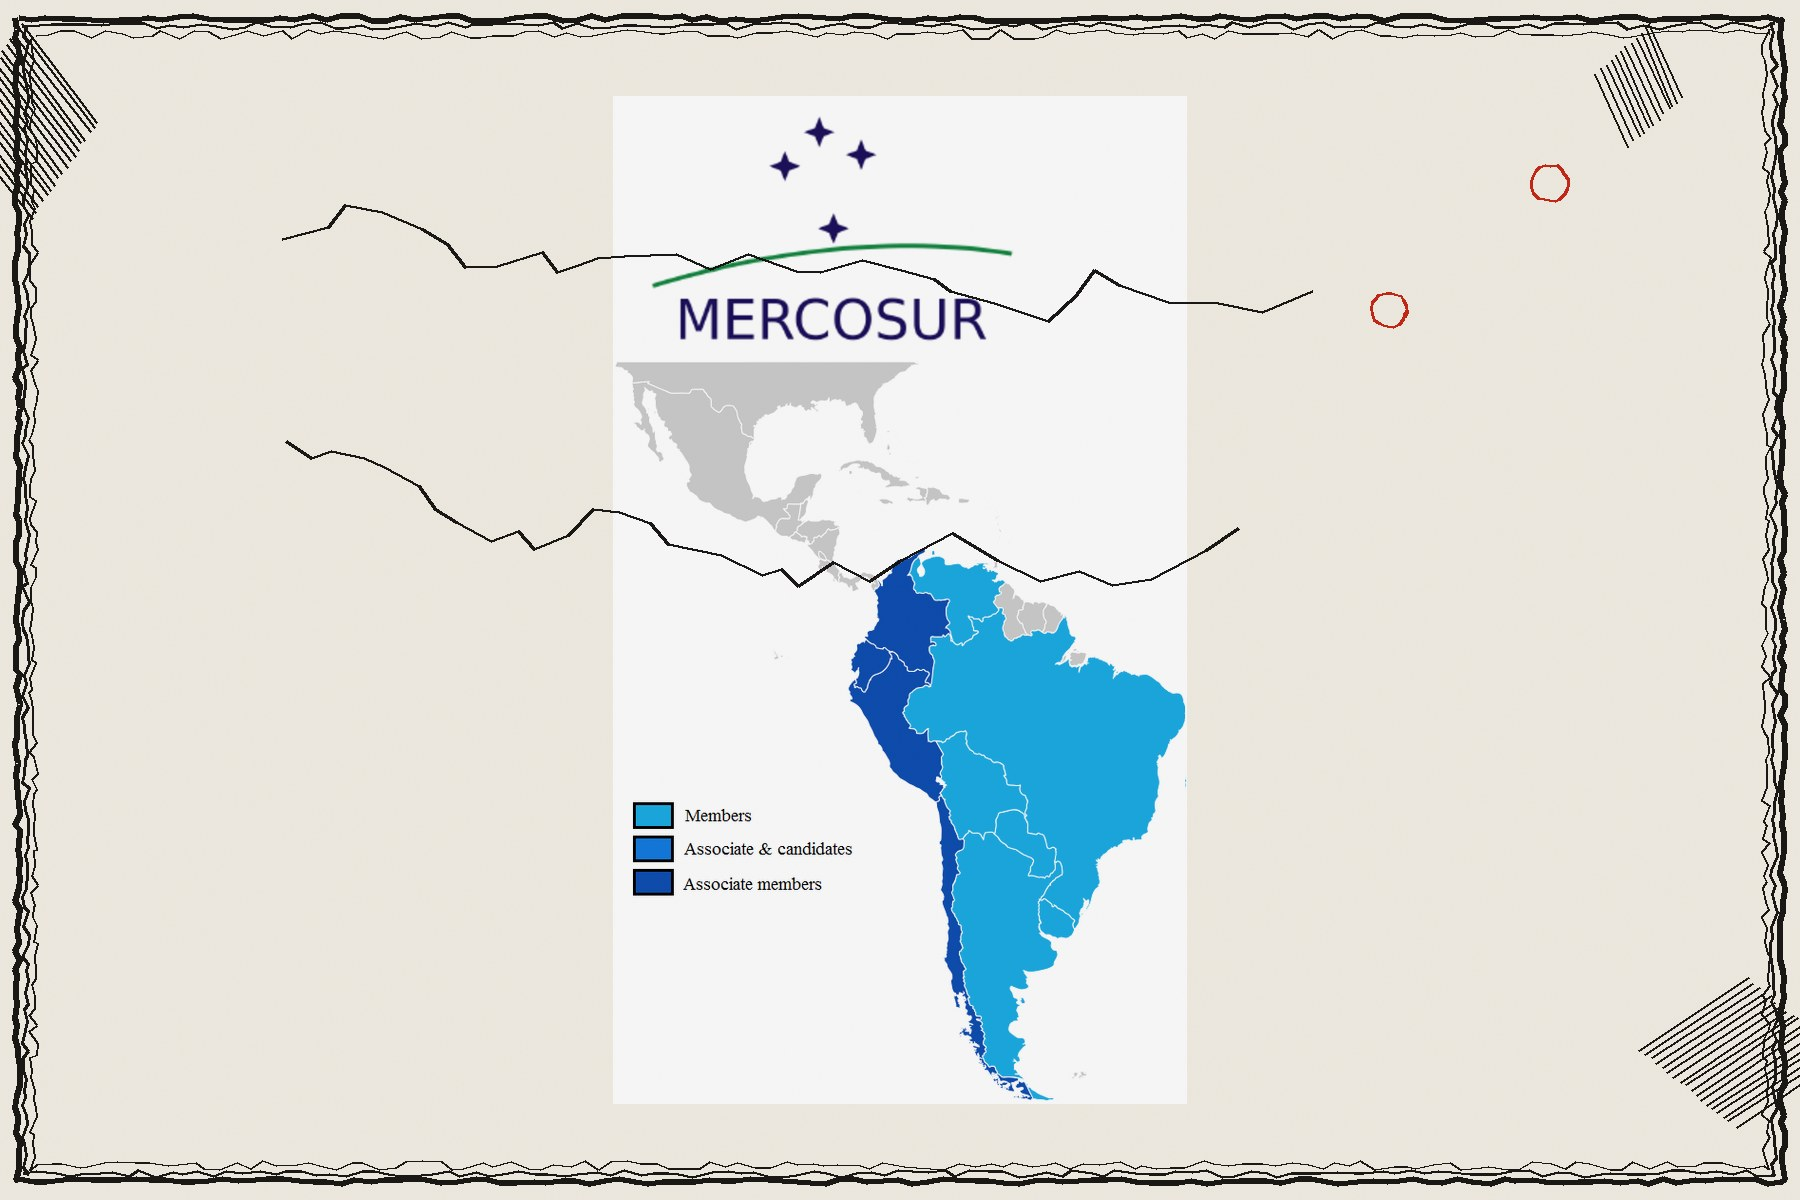
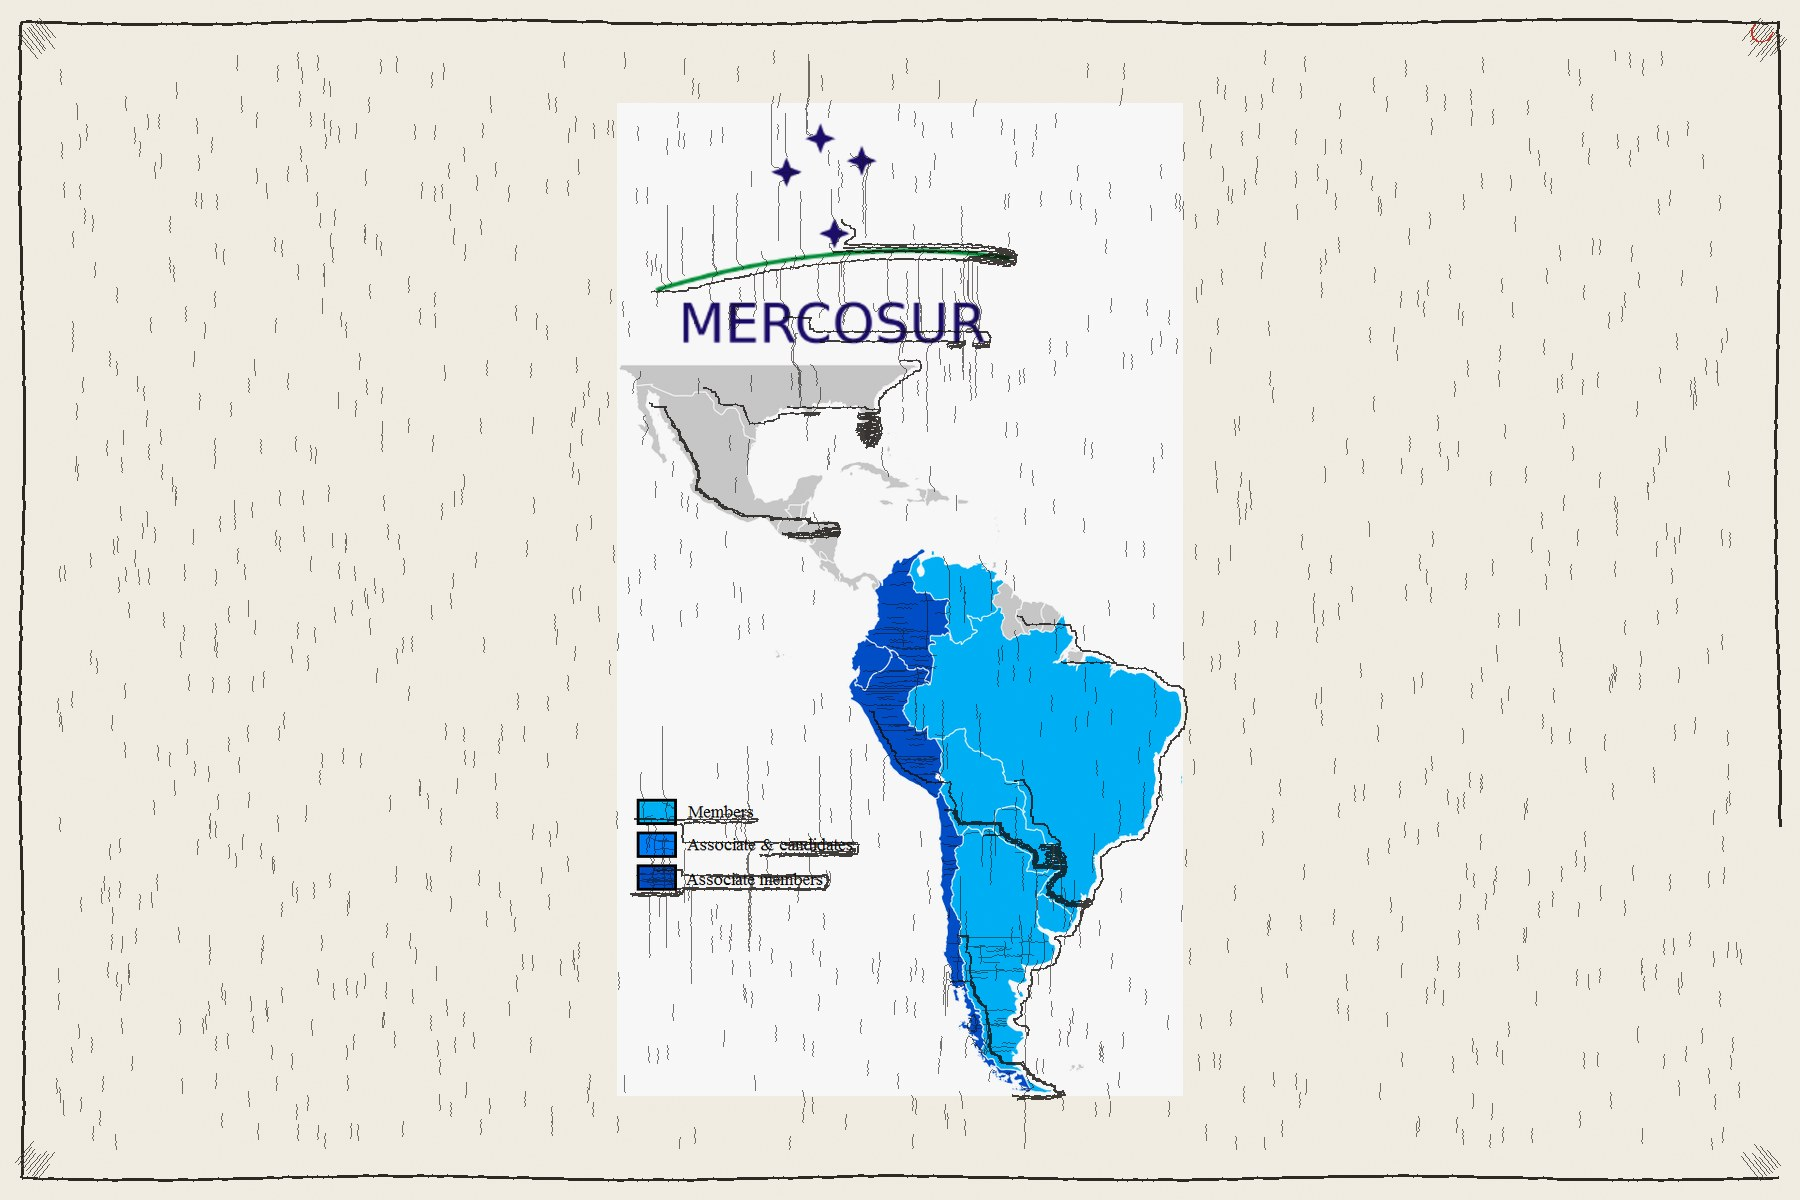
Rayado a tinta que sigue la forma, no la grilla.
Las láminas van montadas en papel, con marco incompleto, hatch en
las esquinas y trazos que corren con la arquitectura y el traje.

diff --git a/scripts/ny-plates.py b/scripts/ny-plates.py
@@ -1,5 +1,5 @@
 #!/usr/bin/env python3
-"""Official / Wikimedia plates + handmade New Yorker ink overlay."""
+"""Official photos mounted as plates, with form-following New Yorker ink."""
 from __future__ import annotations
 
 import math
@@ -10,163 +10,258 @@ import numpy as np
 from PIL import Image, ImageDraw, ImageEnhance, ImageFilter
 
 OUT = Path("/workspace/public/photos/plates")
-OUT.mkdir(parents=True, exist_ok=True)
 SRC = Path("/tmp/wm")
-
 W, H = 1800, 1200
-INK = (18, 16, 14, 245)
-RED = (196, 18, 0, 230)
+PAPER = (248, 243, 232)
+MX, MY = 54, 48  # cream margin around the photo
+INK = (28, 22, 18, 210)
+RED = (196, 18, 0, 210)
 
 
-def crop_cover(im: Image.Image, w=W, h=H) -> Image.Image:
+def crop_cover(im: Image.Image, w: int, h: int) -> Image.Image:
     im = im.convert("RGB")
     scale = max(w / im.width, h / im.height)
     nw, nh = int(im.width * scale), int(im.height * scale)
     im = im.resize((nw, nh), Image.Resampling.LANCZOS)
     left = (nw - w) // 2
-    # portraits: keep the crown of the head
-    top = 0 if nh / nw > 1.15 else max(0, (nh - h) // 6)
+    top = 0 if nh / nw > 1.12 else max(0, (nh - h) // 7)
     if top + h > nh:
         top = (nh - h) // 2
     return im.crop((left, top, left + w, top + h))
 
 
 def grade(im: Image.Image) -> Image.Image:
-    im = ImageEnhance.Color(im).enhance(0.7)
-    im = ImageEnhance.Contrast(im).enhance(1.14)
-    im = ImageEnhance.Brightness(im).enhance(1.03)
-    wash = Image.new("RGB", im.size, (244, 238, 226))
-    return Image.blend(im, wash, 0.1)
+    im = ImageEnhance.Color(im).enhance(0.58)
+    im = ImageEnhance.Contrast(im).enhance(1.06)
+    wash = Image.new("RGB", im.size, PAPER)
+    return Image.blend(im, wash, 0.14)
 
 
-def letterbox(im: Image.Image, w=W, h=H, paper=(246, 240, 228)) -> Image.Image:
-    canvas = Image.new("RGB", (w, h), paper)
-    im = im.convert("RGBA")
-    scale = min((w * 0.72) / im.width, (h * 0.84) / im.height)
-    nw, nh = max(1, int(im.width * scale)), max(1, int(im.height * scale))
-    im = im.resize((nw, nh), Image.Resampling.LANCZOS)
-    x, y = (w - nw) // 2, (h - nh) // 2
-    rgb = im.convert("RGB")
-    if im.mode == "RGBA":
-        canvas.paste(rgb, (x, y), im.split()[-1])
-    else:
-        canvas.paste(rgb, (x, y))
+def mount(src: Image.Image, mode: str) -> Image.Image:
+    canvas = Image.new("RGB", (W, H), PAPER)
+    iw, ih = W - 2 * MX, H - 2 * MY
+    if mode == "letterbox":
+        im = src.convert("RGBA")
+        scale = min(iw * 0.88 / im.width, ih * 0.9 / im.height)
+        nw, nh = max(1, int(im.width * scale)), max(1, int(im.height * scale))
+        im = im.resize((nw, nh), Image.Resampling.LANCZOS)
+        x, y = (W - nw) // 2, (H - nh) // 2
+        canvas.paste(im.convert("RGB"), (x, y), im.split()[-1] if im.mode == "RGBA" else None)
+        return canvas
+    photo = crop_cover(src, iw, ih)
+    photo = grade(photo)
+    canvas.paste(photo, (MX, MY))
     return canvas
 
 
-def edge_ink(im: Image.Image, keep=0.028) -> Image.Image:
-    g = im.convert("L").filter(ImageFilter.FIND_EDGES)
-    g = ImageEnhance.Contrast(g).enhance(2.6)
-    arr = np.asarray(g).astype(np.float32)
-    thresh = np.quantile(arr, 1.0 - keep)
-    mask = arr >= max(float(thresh), 80.0)
-    pix = np.zeros((im.height, im.width, 4), dtype=np.uint8)
-    pix[mask, 0:3] = (16, 14, 12)
-    pix[mask, 3] = 210
-    layer = Image.fromarray(pix, "RGBA")
-    return layer.filter(ImageFilter.MaxFilter(3))
+def conv(a: np.ndarray, k: np.ndarray) -> np.ndarray:
+    from numpy.lib.stride_tricks import sliding_window_view
+    pad = k.shape[0] // 2
+    p = np.pad(a, pad, mode="edge")
+    win = sliding_window_view(p, k.shape)
+    return np.einsum("ijkl,kl->ij", win, k)
 
 
-def jitter_line(draw, pts, width=2, fill=INK, amp=2.2):
-    out = []
-    for x, y in pts:
-        out.append((x + random.uniform(-amp, amp), y + random.uniform(-amp, amp)))
-    if len(out) >= 2:
-        draw.line(out, fill=fill, width=width, joint="curve")
+def field(g: np.ndarray):
+    gx = np.zeros_like(g)
+    gy = np.zeros_like(g)
+    gx[:, 1:-1] = g[:, 2:] - g[:, :-2]
+    gy[1:-1, :] = g[2:, :] - g[:-2, :]
+    mag = np.hypot(gx, gy)
+    ang = np.arctan2(gy, gx)
+    k = np.ones((11, 11), np.float32) / 121.0
+    c, s = np.cos(ang), np.sin(ang)
+    ang_s = np.arctan2(conv(s, k), conv(c, k))
+    return conv(mag, k), ang_s
 
 
-def rect_path(x0, y0, x1, y1, n=110):
-    pts = []
-    edges = [
-        [(x0 + (x1 - x0) * t / n, y0) for t in range(n + 1)],
-        [(x1, y0 + (y1 - y0) * t / n) for t in range(n + 1)],
-        [(x1 - (x1 - x0) * t / n, y1) for t in range(n + 1)],
-        [(x0, y1 - (y1 - y0) * t / n) for t in range(n + 1)],
-    ]
-    for e in edges:
-        pts.extend(e)
-    return pts
+def allow_map(g, mag, portrait: bool) -> np.ndarray:
+    h, w = g.shape
+    yy, xx = np.mgrid[0:h, 0:w]
+    # denser toward the edges of the photo — vignette of drawing
+    nx = np.abs(xx - w / 2) / (w / 2)
+    ny = np.abs(yy - h / 2) / (h / 2)
+    edge = np.clip(np.maximum(nx, ny) * 1.15, 0, 1)
+    struct = np.clip((mag - 4) / 36, 0, 1)
+    mid = np.clip(1 - np.abs(g - 120) / 120, 0, 1)
+    m = (0.35 + 0.65 * edge) * (0.4 + 0.6 * struct) * (0.5 + 0.5 * mid)
+    if portrait:
+        cx, cy, rx, ry = w * 0.5, h * 0.40, w * 0.20, h * 0.28
+        ell = ((xx - cx) / rx) ** 2 + ((yy - cy) / ry) ** 2
+        face = np.clip((ell - 0.55) / 0.9, 0.12, 1.0)  # some lines on the face, not a blanket
+        m *= face
+    # no ink on the cream margin
+    m[: MY + 2, :] = 0
+    m[h - MY - 2 :, :] = 0
+    m[:, : MX + 2] = 0
+    m[:, w - MX - 2 :] = 0
+    return m.astype(np.float32)
 
 
-def hatch(draw, x, y, s=110, ang=0.7, n=16):
-    for i in range(n):
-        o = i * (s / n)
-        x0 = x + o * math.cos(ang + 1.25)
-        y0 = y + o * math.sin(ang + 1.25)
-        x1 = x0 + s * math.cos(ang)
-        y1 = y0 + s * math.sin(ang)
-        jitter_line(draw, [(x0, y0), (x1, y1)], width=2, amp=1.6)
+def walk(g, mag, ang, allow, n, seed, angle_off=math.pi / 2, maxlen=40):
+    rng = np.random.default_rng(seed)
+    h, w = g.shape
+    p = allow.ravel()
+    s = float(p.sum())
+    if s < 1:
+        return []
+    idx = rng.choice(p.size, size=n, p=p / s)
+    ys, xs = np.divmod(idx, w)
+    strokes = []
+    for x0, y0 in zip(xs.astype(float), ys.astype(float)):
+        pts = []
+        x, y = float(x0), float(y0)
+        yi, xi = int(y0), int(x0)
+        length = int(8 + min(maxlen, mag[yi, xi] * 0.5))
+        sign = 1.0 if rng.random() > 0.5 else -1.0
+        for _ in range(length):
+            xi, yi = int(x), int(y)
+            if not (4 <= xi < w - 4 and 4 <= yi < h - 4):
+                break
+            if allow[yi, xi] < 0.08:
+                break
+            a = ang[yi, xi] + angle_off * sign
+            pts.append((x, y))
+            x += 2.15 * math.cos(a)
+            y += 2.15 * math.sin(a)
+        if len(pts) > 4:
+            strokes.append(pts)
+    return strokes
 
 
-def gesture(draw, w, h, seed):
+def long_contours(mag, allow, n=24, seed=2):
     rng = random.Random(seed)
-    x, y = rng.uniform(w * 0.07, w * 0.18), rng.uniform(h * 0.18, h * 0.75)
-    pts = [(x, y)]
-    for _ in range(30):
-        x += rng.uniform(16, 52)
-        y += rng.uniform(-26, 26)
-        pts.append((x, y))
-        if x > w * 0.93:
+    h, w = mag.shape
+    edge = (mag > np.quantile(mag, 0.94)) & (allow > 0.12)
+    seen = np.zeros_like(edge)
+    ys, xs = np.where(edge)
+    ids = list(range(len(xs)))
+    rng.shuffle(ids)
+    chains = []
+    nbr = ((1, 0), (0, 1), (-1, 0), (0, -1), (1, 1), (-1, 1), (1, -1), (-1, -1))
+    for k in ids[:5000]:
+        x, y = int(xs[k]), int(ys[k])
+        if seen[y, x]:
+            continue
+        chain = []
+        for _ in range(500):
+            if not (0 <= x < w and 0 <= y < h) or seen[y, x] or not edge[y, x]:
+                break
+            seen[y, x] = True
+            chain.append((x, y))
+            step = False
+            for dx, dy in nbr:
+                nx, ny = x + dx, y + dy
+                if 0 <= nx < w and 0 <= ny < h and edge[ny, nx] and not seen[ny, nx]:
+                    x, y = nx, ny
+                    step = True
+                    break
+            if not step:
+                break
+        if len(chain) > 48:
+            chains.append(chain[::3])
+        if len(chains) >= n:
             break
-    jitter_line(draw, pts, width=3, amp=3.4)
-    cx, cy = rng.uniform(w * 0.7, w * 0.9), rng.uniform(h * 0.1, h * 0.26)
-    r = rng.uniform(16, 26)
-    jitter_line(
-        draw,
-        [(cx + r * math.cos(t), cy + r * math.sin(t)) for t in [i * 0.32 for i in range(22)]],
-        width=3,
+    chains.sort(key=len, reverse=True)
+    return chains[:n]
+
+
+def jitter(pts, amp=0.7):
+    return [(x + random.uniform(-amp, amp), y + random.uniform(-amp, amp)) for x, y in pts]
+
+
+def frame(draw):
+    m = 22
+    sides = [
+        [(m + t, m + math.sin(t / 90.0) * 2.4) for t in range(0, W - 2 * m, 5)],
+        [(W - m + math.sin(t / 100.0) * 2.4, m + t) for t in range(0, H - 2 * m, 5)],
+        [(W - m - t, H - m + math.sin(t / 80.0) * 2.0) for t in range(0, W - 2 * m, 5)],
+        [(m + math.sin(t / 95.0) * 2.4, H - m - t) for t in range(0, H - 2 * m, 5)],
+    ]
+    for i, side in enumerate(sides):
+        if i == 1:
+            side = side[: int(len(side) * 0.7)]  # unfinished
+        draw.line(jitter(side, 0.6), fill=(26, 20, 16, 230), width=3, joint="curve")
+
+
+def margin_hatch(draw, seed):
+    """Corner clusters of parallel ink, like a cartoonist’s hatch — not scattered ticks."""
+    rng = random.Random(seed)
+    corners = [
+        (28, 28, 0.9, 0.35),
+        (W - 28, 28, math.pi - 0.9, 0.35),
+        (28, H - 28, -0.9, 0.35),
+        (W - 28, H - 28, math.pi + 0.9, 0.35),
+    ]
+    for cx, cy, ang, _ in corners:
+        n = rng.randint(7, 11)
+        for i in range(n):
+            o = (i - n / 2) * 3.4
+            x0 = cx + o * math.cos(ang + math.pi / 2)
+            y0 = cy + o * math.sin(ang + math.pi / 2)
+            L = rng.uniform(18, 36)
+            x1 = x0 + L * math.cos(ang)
+            y1 = y0 + L * math.sin(ang)
+            # keep inside the cream margin band
+            draw.line(jitter([(x0, y0), (x1, y1)], 0.5), fill=(26, 20, 16, 175), width=1)
+    x, y = W - 38, 32
+    draw.line(
+        jitter([(x + 10 * math.cos(t), y + 10 * math.sin(t)) for t in [i * 0.5 for i in range(9)]], 0.4),
         fill=RED,
-        amp=1.2,
+        width=2,
+        joint="curve",
     )
 
 
-def plate(src: Path, dest: Path, seed: int, mode="cover"):
+def plate(src: Path, dest: Path, seed: int, mode: str):
     random.seed(seed)
-    im = Image.open(src)
-    if mode == "letterbox":
-        im = letterbox(im)
-        im = ImageEnhance.Color(im).enhance(0.8)
-    else:
-        im = crop_cover(im)
-        im = grade(im)
-    base = im.convert("RGBA")
-    if mode != "letterbox":
-        base = Image.alpha_composite(base, edge_ink(im))
+    src_im = Image.open(src)
+    if src.name.startswith("alberdi"):
+        w0, h0 = src_im.size
+        src_im = src_im.crop((int(w0 * 0.07), int(h0 * 0.02), int(w0 * 0.93), int(h0 * 0.98)))
+    mounted = mount(src_im, mode)
+    g = np.asarray(mounted.convert("L"), dtype=np.float32)
+    mag, ang = field(g)
+    portrait = mode == "portrait"
+    allow = allow_map(g, mag, portrait)
 
-    overlay = Image.new("RGBA", base.size, (0, 0, 0, 0))
+    along = walk(g, mag, ang, allow, n=900 if portrait else 1300, seed=seed, angle_off=math.pi / 2)
+    # true cross-hatch only in darker, structured zones
+    dark = allow * np.clip((160 - g) / 90, 0, 1)
+    cross = walk(g, mag, ang, dark, n=380 if portrait else 620, seed=seed + 9, angle_off=0.0, maxlen=22)
+    cons = long_contours(mag, allow, n=18 if portrait else 28, seed=seed + 4)
+
+    overlay = Image.new("RGBA", (W, H), (0, 0, 0, 0))
     d = ImageDraw.Draw(overlay)
-    for k, wth in enumerate((6, 3, 2)):
-        inset = 18 + k * 8
-        pts = rect_path(inset, inset, W - inset, H - inset, n=120)
-        jitter_line(d, pts, width=wth, amp=2.8 + k)
-    hatch(d, 22, 22, s=125, ang=0.92, n=18)
-    hatch(d, W - 160, H - 150, s=130, ang=-0.58, n=18)
-    hatch(d, W - 150, 24, s=80, ang=1.15, n=12)
-    gesture(d, W, H, seed)
-    gesture(d, W, H, seed + 9)
+    for pts in along:
+        d.line(jitter(pts, 0.45), fill=(24, 18, 14, 150), width=1, joint="curve")
+    for pts in cross:
+        d.line(jitter(pts, 0.4), fill=(24, 18, 14, 130), width=1, joint="curve")
+    for pts in cons:
+        d.line(jitter(pts, 0.55), fill=(20, 16, 12, 205), width=2, joint="curve")
+    frame(d)
+    margin_hatch(d, seed)
 
-    out = Image.alpha_composite(base, overlay).convert("RGB")
-    noise = np.random.randint(0, 26, (H, W), dtype=np.uint8)
-    grain = Image.fromarray(noise, "L").convert("RGB")
-    out = Image.blend(out, grain, 0.04)
+    out = Image.alpha_composite(mounted.convert("RGBA"), overlay).convert("RGB")
+    noise = np.random.default_rng(seed).integers(0, 18, (H, W), dtype=np.uint8)
+    out = Image.blend(out, Image.fromarray(noise, "L").convert("RGB"), 0.03)
     dest.parent.mkdir(parents=True, exist_ok=True)
     out.save(dest, "JPEG", quality=88, optimize=True)
-    print("wrote", dest, dest.stat().st_size)
+    print("wrote", dest.name)
 
 
 PLATES = [
     ("el-estado-que-no-existe", "moneda.jpg", 11, "cover"),
     ("manual-ecuador-dolarizacion", "carondelet.jpg", 22, "cover"),
-    ("bukele-vara-liberal", "bukele.jpg", 33, "cover"),
+    ("bukele-vara-liberal", "bukele.jpg", 33, "portrait"),
     ("quien-paga-el-estado", "mercado.jpg", 44, "cover"),
-    ("alberdi-contra-los-libertarios", "alberdi.jpg", 55, "cover"),
+    ("alberdi-contra-los-libertarios", "alberdi.jpg", 55, "portrait"),
     ("contrapunto-cerrar-la-frontera", "congreso.jpg", 66, "cover"),
     ("catorce", "mercosur.png", 77, "letterbox"),
     ("china-no-compro-america-latina", "callao.jpg", 88, "cover"),
-    ("informalidad-mercado-laboral", "informal.jpg", 99, "cover"),
+    ("informalidad-mercado-laboral", "informal.jpg", 99, "portrait"),
     ("la-iglesia-que-si-llega", "iglesia.jpg", 111, "cover"),
 ]
-
 
 if __name__ == "__main__":
     for slug, fname, seed, mode in PLATES:
